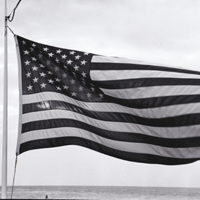
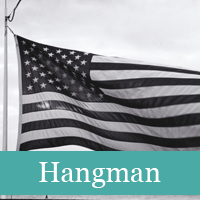
text on images

Changed region(s): [[0.0, 0.75, 1.0, 0.99]]

diff --git a/assets/css/style.css b/assets/css/style.css
@@ -1,7 +1,11 @@
 html, body {
-	background-image: "assets/images/contemporary_china_2.png";
+	background-image: url("../images/contemporary_china_2.png");
 	height: 100%;
 	margin: 0;
+}
+
+html {
+	width: 960px;
 }
 
 #logo {
@@ -11,9 +15,10 @@ html, body {
 	border-bottom-color: #cccccc;
 	border-bottom-width: 2px;
 	color: white;
+	margin-left: 30px;
 }
 
-#links-to-pages, p, .wrapper, form {
+#links-to-pages, p, form .bottom-centered {
 	font-family: "Arial", "Helvetica Neve", Helvetica, sans-serif;
 	color: #777777;
 }
@@ -21,6 +26,9 @@ html, body {
 #header-of-page {
 	font-family: "Georgia", Times, Times New Roman, serif;
 	color: #4aaaa5;
+	border-bottom-style: solid;
+	border-bottom-width: 2px;
+	border-bottom-color: #cccccc;
 }
 
 #bio-image{
@@ -42,11 +50,6 @@ p {
 	width: 60px;
 	margin-right: 5px;
 	float: right;
-}
-
-.wrapper {
-	min-height: 100%;
-	margin-bottom: -50px;
 }
 
 .footer {

diff --git a/portfolio.html b/portfolio.html
@@ -26,8 +26,28 @@
 						<div class="container">
 							<img src="assets/images/hangman.png">
 							<div class="bottom-centered">Hangman</div>
+
 						</div>
 
+						<div class="container-right">
+							<img src="assets/images/rpg-game.png">
+							<div class="bottom-centered">RPG Game</div>
+						</div>
+
+						<div class="container">
+							<img src="assets/images/trivia-game.png">
+							<div class="bottom-centered">Trivia Game</div>
+						</div>
+
+						<div class="container-right">
+							<img src="assets/images/rutgers-info-widget.png">
+							<div class="bottom-centered">Rutgers Info Widget</div>
+						</div>
+
+						<div class="container">
+							<img src="assets/images/rock-paper-scissors.png">
+							<div class="bottom-centered">Rock Paper Scissors</div>
+						</div>
 					</section>
 
 
